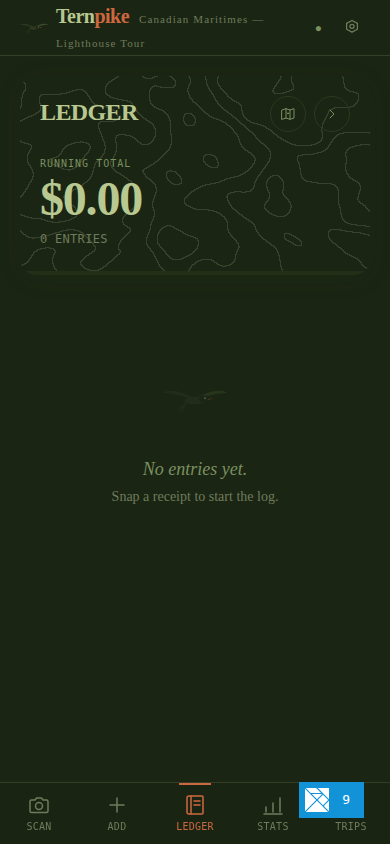
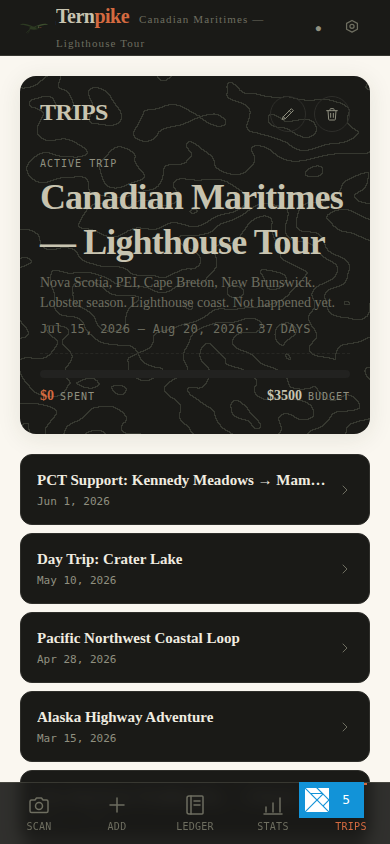
Dark mode: redesign palette to near-black inverted theme
Replace dark forest-green surfaces with near-black (#1a1a17 cards,
#0c0c0b body) and near-white text (#f0ece0). Rust ember accent stays
warm for contrast against the darker ground. Removes all green tint
from dark-mode backgrounds.

https://claude.ai/code/session_01HcKuhnqoBnXwD9bJ5Eh1rK

diff --git a/src/theme.css b/src/theme.css
@@ -99,34 +99,30 @@
    buttons (text-parchment) so it must stay cream. Surface uses of
    bg-parchment get explicit dark:bg-cream overrides in Elm instead.       */
 html.dark {
-  /* Surfaces */
-  --color-cream:        #1b2513;
-  --color-cream-deep:   #242f18;
-  --color-tan:          #2c3a1e;
+  /* Surfaces — near-black */
+  --color-cream:        #1a1a17;
+  --color-cream-deep:   #222220;
+  --color-tan:          #2e2e2a;
 
-  /* Text */
-  --color-ink:          #ddd6b8;
-  --color-forest:       #b8c890;
-  --color-forest-mid:   #98a870;
-  --color-forest-light: #7c9060;
-  --color-forest-deep:  #0e1509;
-  --color-moss:         #7a9060;
-  --color-muted:        #6e7c5c;
+  /* Text — near-white */
+  --color-ink:          #f0ece0;
+  --color-forest:       #c8c4b0;
+  --color-forest-mid:   #a8a498;
+  --color-forest-light: #888478;
+  --color-forest-deep:  #080807;
+  --color-moss:         #909080;
+  --color-muted:        #6e6e60;
 
-  /* Accent — campfire */
-  --color-rust:         #cc6840;
+  /* Accent — campfire ember */
+  --color-rust:         #d46a40;
   --color-rust-light:   #e07850;
-  --color-rust-deep:    #aa5030;
-  --color-rust-tint:    #1e1208;
+  --color-rust-deep:    #b05030;
+  --color-rust-tint:    #1c0f08;
   --color-danger:       #cc3838;
 
-  /* Polish surfaces */
-  --color-cream-deep:   #242f18;
-  --color-rust-deep:    #aa5030;
-
   /* Editorial rules */
-  --rule-tan:  1px dashed rgb(44 58 32 / 0.7);
-  --rule-moss: 1px solid  rgb(122 144 96 / 0.28);
+  --rule-tan:  1px dashed rgb(46 46 42 / 0.9);
+  --rule-moss: 1px solid  rgb(144 144 128 / 0.20);
 
   /* Shadows — black-based so they're visible on dark surfaces */
   --shadow-card:       0 4px 24px rgb(0 0 0 / 0.35);

diff --git a/src/global.css b/src/global.css
@@ -85,7 +85,7 @@
 
   /* Dark mode: body bg must be darker than cards (parchment token stays cream) */
   html.dark body {
-    background-color: #111a0b;
+    background-color: #0c0c0b;
   }
 
   /* Keyboard focus ring on real buttons */
